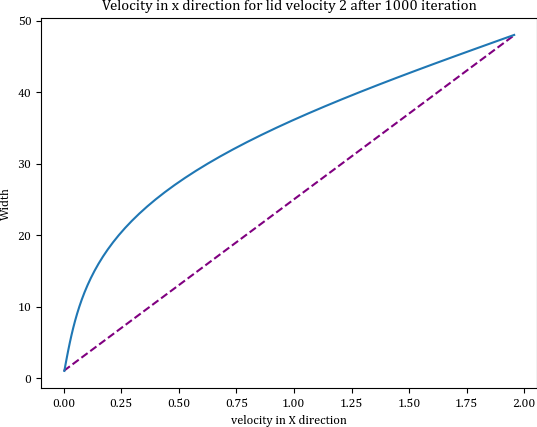
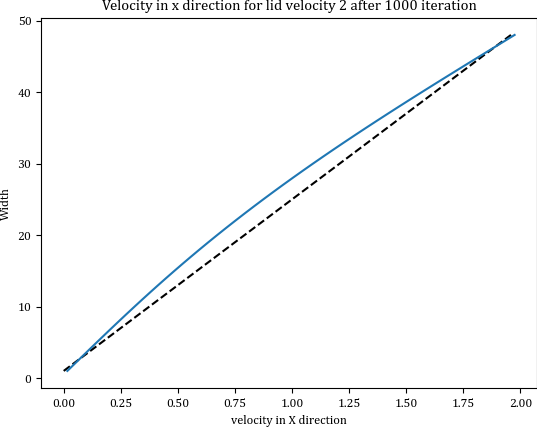
Updated Couette

diff --git a/simulattions/couette_flow.py b/simulattions/couette_flow.py
@@ -21,15 +21,15 @@ def couette_flow_simulation(Nx: int, Ny: int, omega: float, output_dir: str, sav
         if(j == i):
             xmin, xmax, ymin, ymax = axes[1].axis()
             x = np.linspace(xmin, xmax)
-            y_max = np.full(len(x),ymax-2)
-            y_min = np.full(len(x),ymin+2)
+            y_max = np.full(len(x),Ny-2)
+            y_min = np.full(len(x),1)
             axes[1].set_ylabel("Width Ny")
             axes[1].set_xlabel("Velocity in X direction")
             axes[1].set_title('Couette Flow with lid velocity {}'.format(lid_vel))
             # setup for gif      
-            # axes[1].plot(x, y_min, color='k')
-            # axes[1].plot(x, y_max, color='r')
-            # axes[1].legend(['Analytical Flow','Simulated Flow','Rigid wall','Moving wall'])
+            axes[1].plot(x, y_min, color='k')
+            axes[1].plot(x, y_max, color='r')
+            axes[1].legend(['Analytical Flow','Simulated Flow','Rigid wall','Moving wall'])
         else:
             j = j+1
     
@@ -64,7 +64,7 @@ def couette_flow_simulation(Nx: int, Ny: int, omega: float, output_dir: str, sav
     f = np.ones((Ny,Nx,9))
     velocity = np.zeros((Ny,Nx,2))
     analytical_vel = analytical_couette(np.arange(1,Ny-1))    
-    axes[1].plot(analytical_vel,np.arange(1,Ny-1), color = 'purple', linestyle='dashed')
+    axes[1].plot(analytical_vel,np.arange(1,Ny-1), color = 'black', linestyle='dashed')
         
     # Iteration starts from here
     for step in range(steps):
@@ -102,7 +102,7 @@ def couette_flow_simulation(Nx: int, Ny: int, omega: float, output_dir: str, sav
             x_val = plt_velocity[1:-1,Nx//2,1]
             # y_val = np.arange(1,Ny-1)
             y_val = np.arange(1,Ny-1)
-            axes[0].plot(analytical_vel,np.arange(1,Ny-1), color = 'purple', linestyle='dashed')
+            axes[0].plot(analytical_vel,np.arange(1,Ny-1), color = 'black', linestyle='dashed')
             axes[0].plot(x_val, y_val)            
             # axes[0].plot(velocity[1:-1,Nx//2,1], np.arange(1,Ny-1), color = 'r')
             save_path = os.path.join(common_path, f'velocity_at{step}.png')

diff --git a/init.py b/init.py
@@ -24,8 +24,8 @@ def experiment_type(type):
     elif (type==CV.couette_flow):        
         Nx = 50
         Ny = 50
-        steps = 2000
-        omega = 1
+        steps = 4000
+        omega = 0.5
         output_dir = 'results'
         save_every = 200
         lid_velocity = 2
